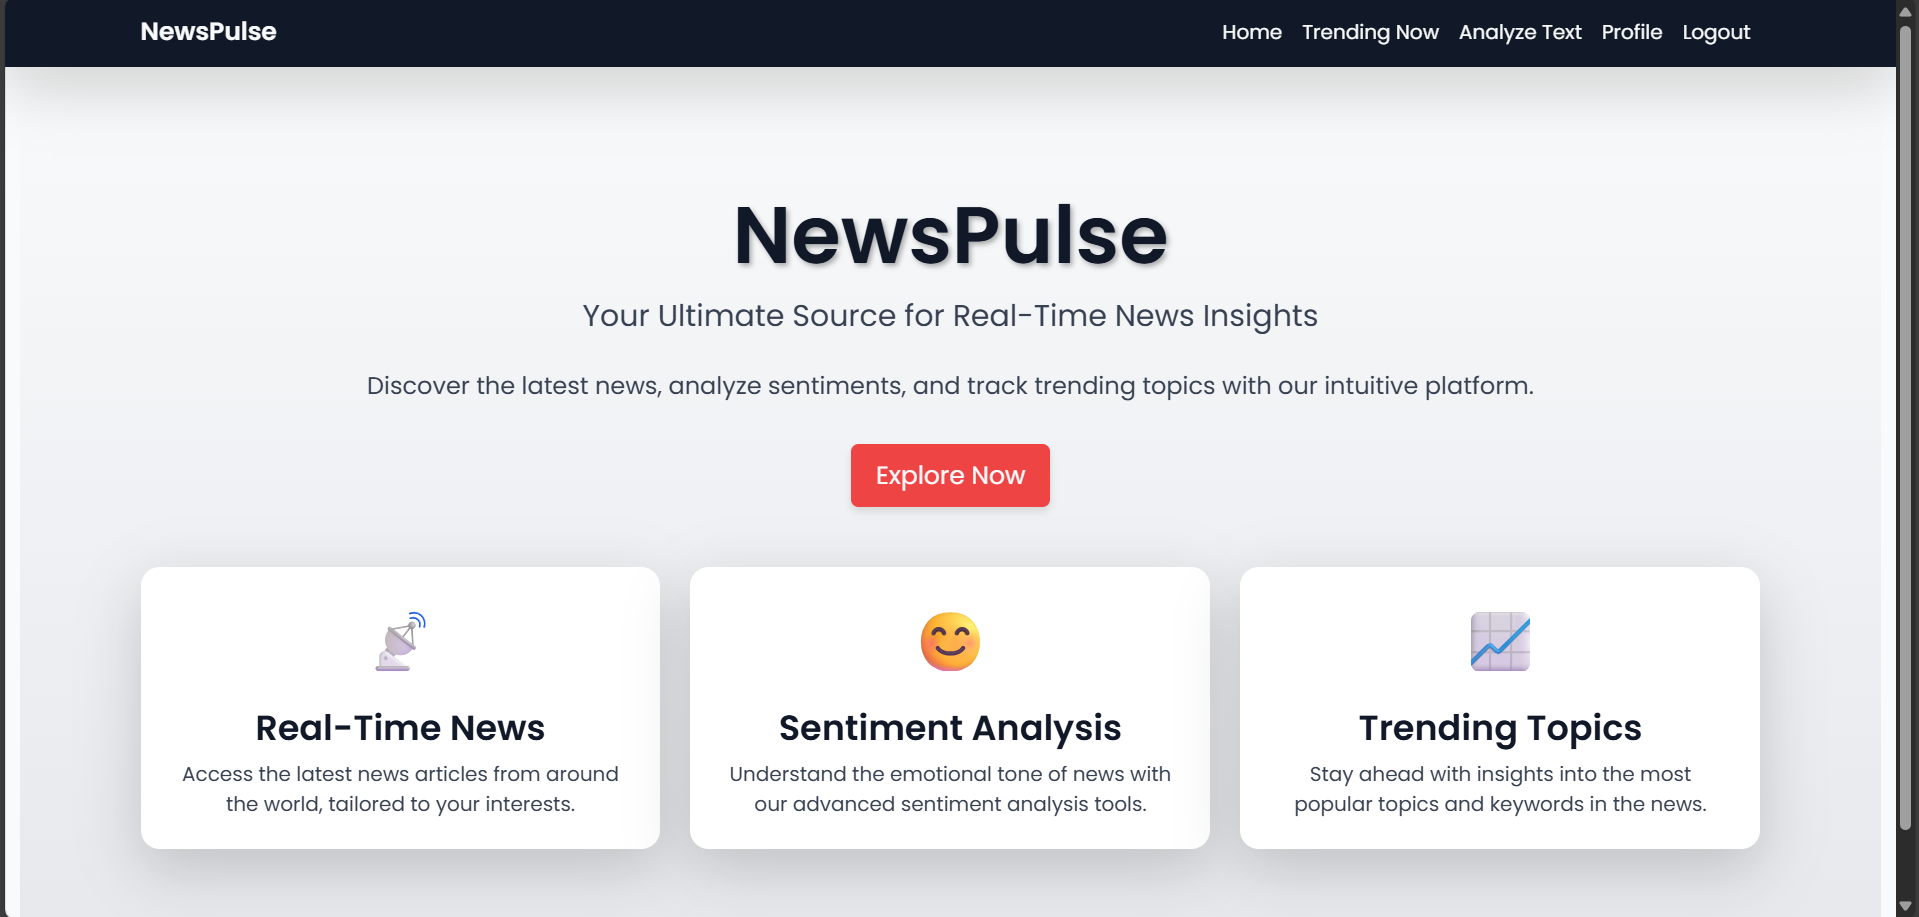
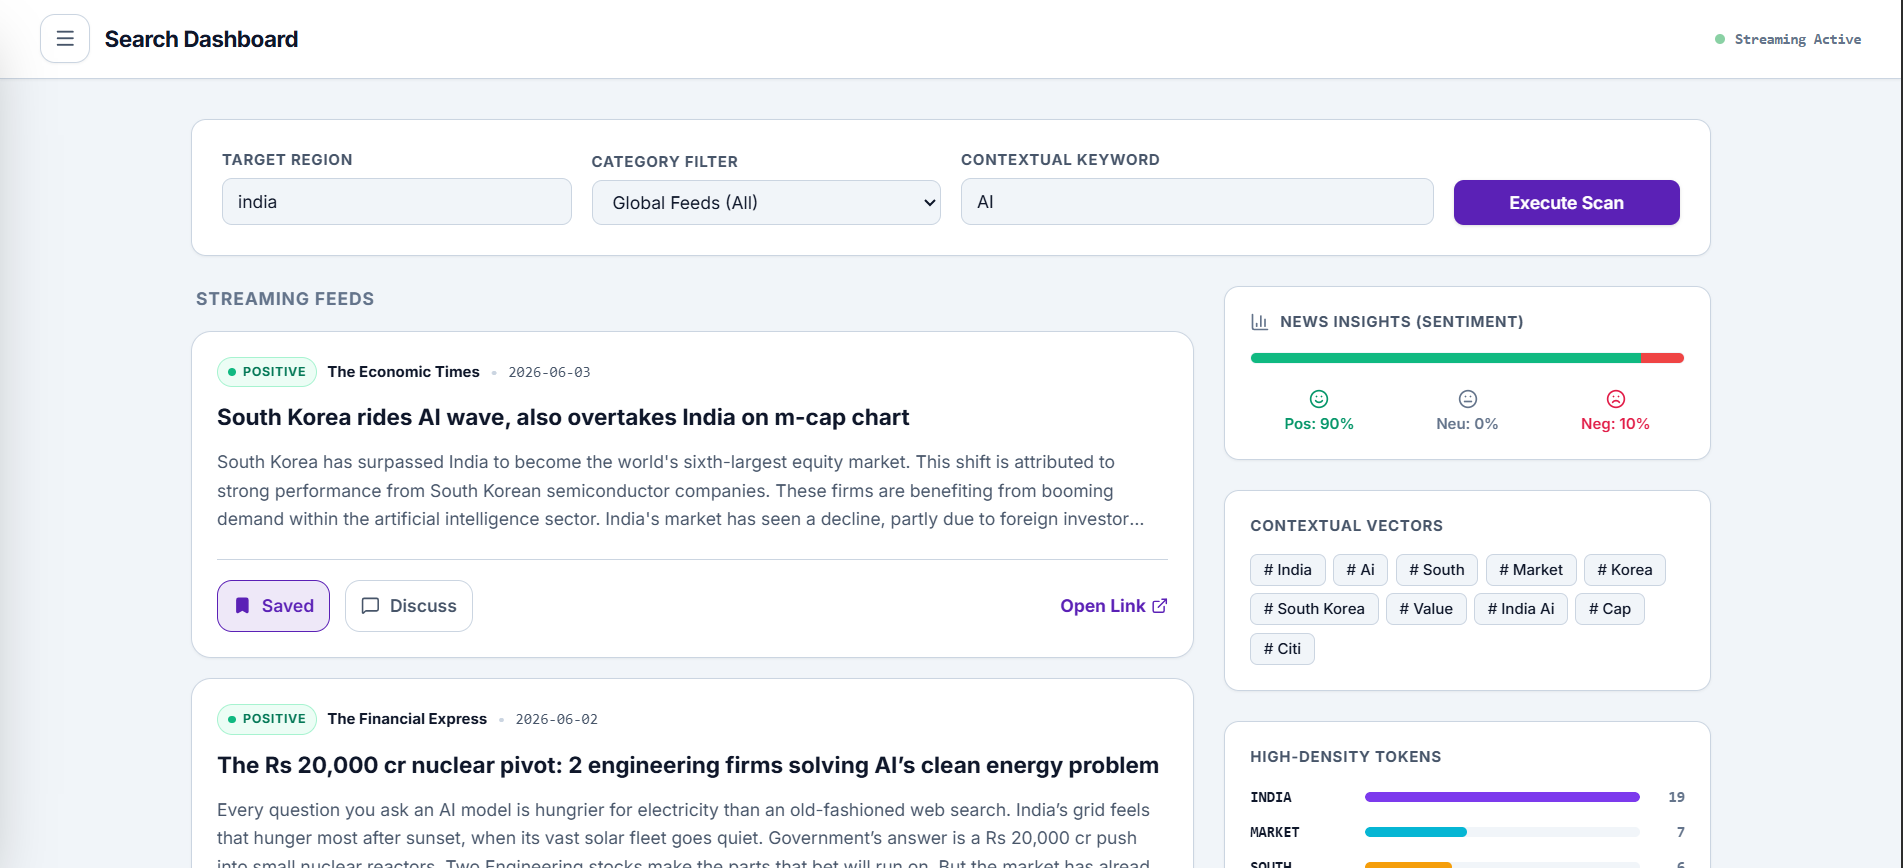
minor changes

diff --git a/src/sections/Projects.jsx b/src/sections/Projects.jsx
@@ -33,7 +33,7 @@ export default function Projects() {
             source="https://github.com/Koushik-Satyavarapu/portfolio.git"
           />
         </ProjectCard>
-        <ProjectCard>
+        {/* <ProjectCard>
           <img src="agriconnect.png" alt="AgriConnect" />
           <Content>
             <h3>AgriConnect</h3>
@@ -50,7 +50,7 @@ export default function Projects() {
             </Tags>
           </Content>
           <CardActions visit="" source="" />
-        </ProjectCard>
+        </ProjectCard> */}
         <ProjectCard>
           <img src="newspulse.png" alt="NewsPulse" />
           <Content>
@@ -70,7 +70,7 @@ export default function Projects() {
             </Tags>
           </Content>
           <CardActions
-            visit=""
+            visit="https://news-pulse-1-liard.vercel.app/"
             source="https://github.com/Koushik-Satyavarapu/NewsPulse.git"
           />
         </ProjectCard>